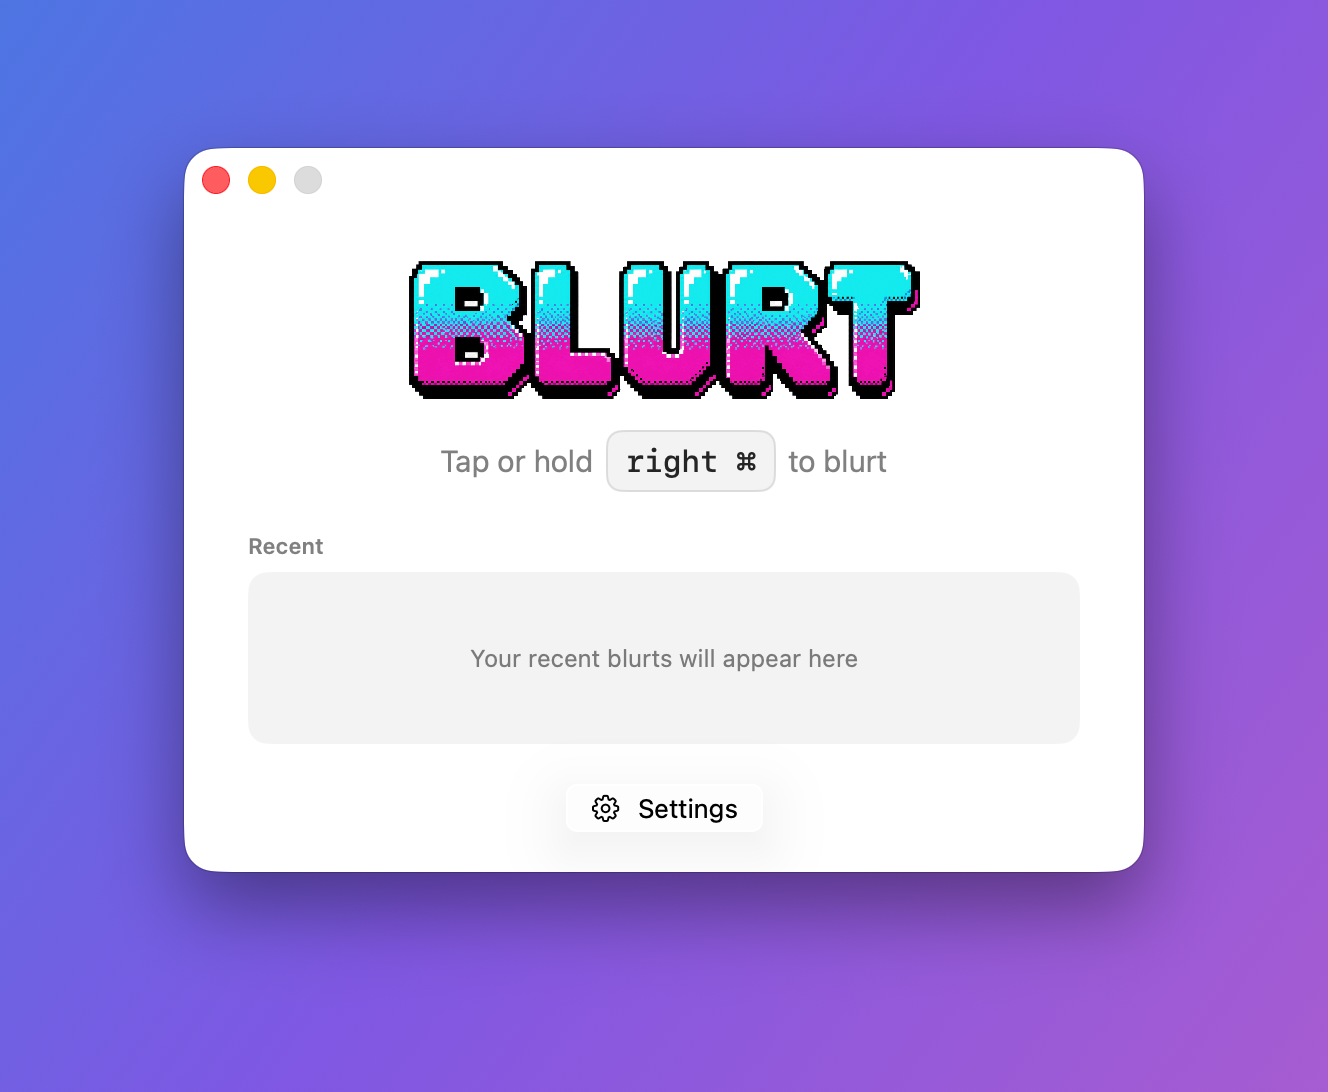
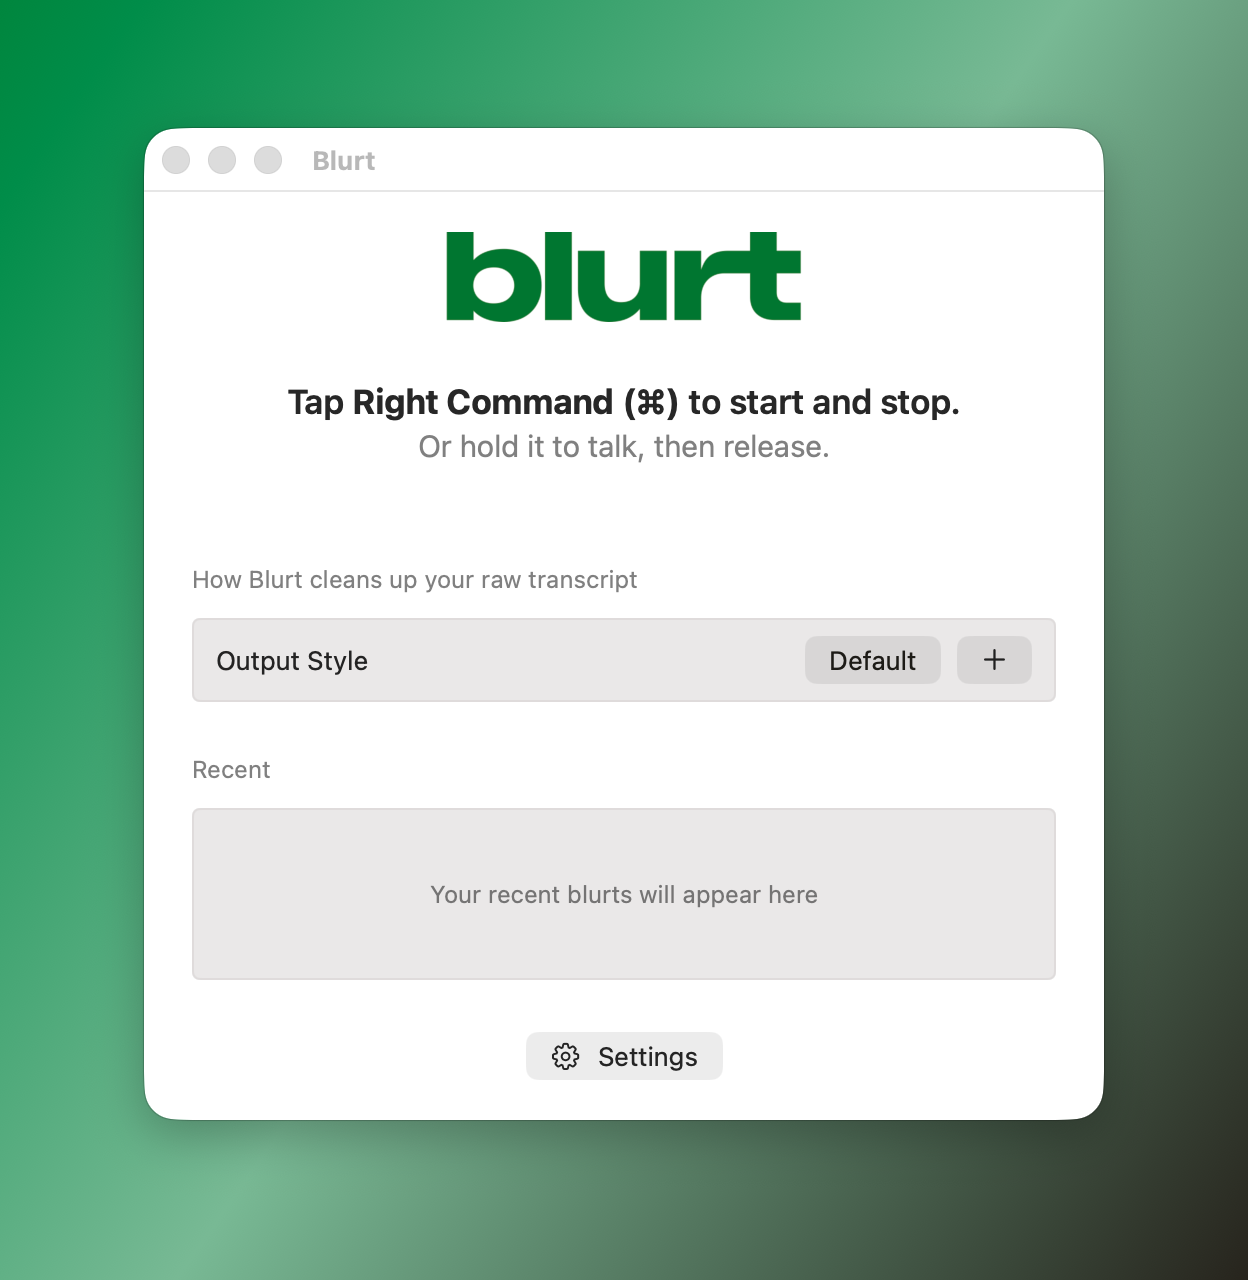
Bring the README's imagery onto the green wordmark brand (#170)
The logo and screenshot both still showed the retired ANSI branding — a
cyan/magenta pixel-art "BLURT" and a shot of the pre-rebrand window on the
Pages site's blue-violet backdrop — several commits after b3d235d moved the
app to the green wordmark and retired the site.

Logo: derived from the app's own Branding/blurt-ready-logo.png, since the
repo has no vector source and that 720x180 raster is the highest-fidelity
original. ReadyView draws it as a template and lets the accent color it, so
one asset serves both appearances; a README can't do that, but <picture>
with prefers-color-scheme gets the same result from two fills of the one
alpha mask — BlurtBrand.green (#01762F) for light, greenOnDark (#67AD82)
for dark. #01762F alone would have gone muddy on GitHub's dark canvas,
which is the bug the template rendering exists to avoid in-app.

Screenshot: recaptured from Blurt 0.1.48 with screenshot.swift, so it shows
the current window — green wordmark, the new "Tap Right Command" copy, and
the Output Style row from f826638. The window's aspect changed (1328x1092
to 1248x1280), so the width/height attributes and the alt text moved with
it. 975 KB to 633 KB.

beautify.swift's gradient followed, from the site's blue-violet to the
brand's own green/green/ink. Its old comment said it "matches the site's
accent colors" — true when written, but the site is gone and the backdrop
was about to sit directly beneath a green wordmark. The literals are
[…]

diff --git a/scripts/beautify.swift b/scripts/beautify.swift
@@ -34,11 +34,16 @@ let out = NSBitmapImageRep(
 NSGraphicsContext.saveGraphicsState()
 NSGraphicsContext.current = NSGraphicsContext(bitmapImageRep: out)
 
-// Brand gradient (matches the site's accent colors), angled.
+// Brand gradient, angled. The three shades are BlurtBrand's own — `green`
+// (#01762F), `greenOnDark` (#67AD82), and `ink` (#1D1B16) — rather than the
+// blue-violet this used to draw, which came from the Pages site's accents and
+// outlived the site. Spelled as literals because a `swift` script run straight
+// from disk can't import the app target that declares them; keep them in step
+// with App/Blurt/Blurt/Branding/BlurtBrand.swift by hand.
 let gradient = NSGradient(colors: [
-  NSColor(calibratedRed: 0.24, green: 0.36, blue: 0.86, alpha: 1),
-  NSColor(calibratedRed: 0.42, green: 0.23, blue: 0.86, alpha: 1),
-  NSColor(calibratedRed: 0.58, green: 0.25, blue: 0.78, alpha: 1),
+  NSColor(calibratedRed: 1 / 255, green: 118 / 255, blue: 47 / 255, alpha: 1),
+  NSColor(calibratedRed: 103 / 255, green: 173 / 255, blue: 130 / 255, alpha: 1),
+  NSColor(calibratedRed: 29 / 255, green: 27 / 255, blue: 22 / 255, alpha: 1),
 ])!
 gradient.draw(in: NSRect(x: 0, y: 0, width: outW, height: outH), angle: -35)
 

diff --git a/README.md b/README.md
@@ -1,7 +1,10 @@
 <div align="center">
   <picture>
-    <source srcset=".github/images/blurt-logo-ansi.webp" type="image/webp" />
-    <img src=".github/images/blurt-logo-ansi.png" alt="Blurt logo" width="720" />
+    <source
+      media="(prefers-color-scheme: dark)"
+      srcset=".github/images/blurt-logo-dark.png"
+    />
+    <img src=".github/images/blurt-logo.png" alt="Blurt" width="300" />
   </picture>
 
   <h2>Free, open-source dictation for your Mac</h2>
@@ -18,7 +21,7 @@
   <p>
     <a href="https://github.com/AssemblyAI/blurt/releases/latest/download/Blurt.dmg">
       <img
-        src="https://img.shields.io/badge/Download-Blurt.dmg-f32a91?style=for-the-badge"
+        src="https://img.shields.io/badge/Download-Blurt.dmg-01762F?style=for-the-badge"
         alt="Download Blurt.dmg"
       />
     </a>
@@ -31,13 +34,13 @@
   <p>
     <a href="https://github.com/AssemblyAI/blurt/releases/latest">
       <img
-        src="https://img.shields.io/badge/macOS-15%2B-00d8ef?style=flat-square"
+        src="https://img.shields.io/badge/macOS-15%2B-01762F?style=flat-square"
         alt="macOS 15 or later"
       />
     </a>
     <a href="https://www.assemblyai.com">
       <img
-        src="https://img.shields.io/badge/powered%20by-AssemblyAI-00d8ef?style=flat-square"
+        src="https://img.shields.io/badge/powered%20by-AssemblyAI-01762F?style=flat-square"
         alt="Powered by AssemblyAI"
       />
     </a>
@@ -50,9 +53,9 @@
 
 <img
     src=".github/images/blurt.png"
-    alt="Blurt's ready screen: tap or hold the hotkey, speak, and transcribed text is pasted into the focused app"
-    width="760"
-    height="625"
+    alt="Blurt's ready screen: the brand wordmark over 'Tap Right Command to start and stop', an Output Style row, and the Recent list where finished dictations land"
+    width="620"
+    height="636"
   />
 
 </div>

diff --git a/AGENTS.md b/AGENTS.md
@@ -85,10 +85,8 @@ scripts/                     check.sh, check-portability.sh, check-invariants.sh
                              hand-run maintainer tools — no automated caller, invoked by a
                              human, so "nothing references it" here does NOT mean dead code:
                              screenshot.swift + beautify.swift (window imagery, capture
-                             then composite), generate-branding-images.sh (records how the logo
-                             assets were generated — provenance, not a renderer),
-                             generate-sounds.swift (regenerates the cues AND the app's
-                             SoundPackCatalog.swift together)
+                             then composite), generate-sounds.swift (regenerates the cues
+                             AND the app's SoundPackCatalog.swift together)
 Brewfile                     Homebrew-managed check.sh tools — the whole toolchain
 evals/                       offline decision support — the repo's only Python, none of it
                              shipped (see evals/README.md)
